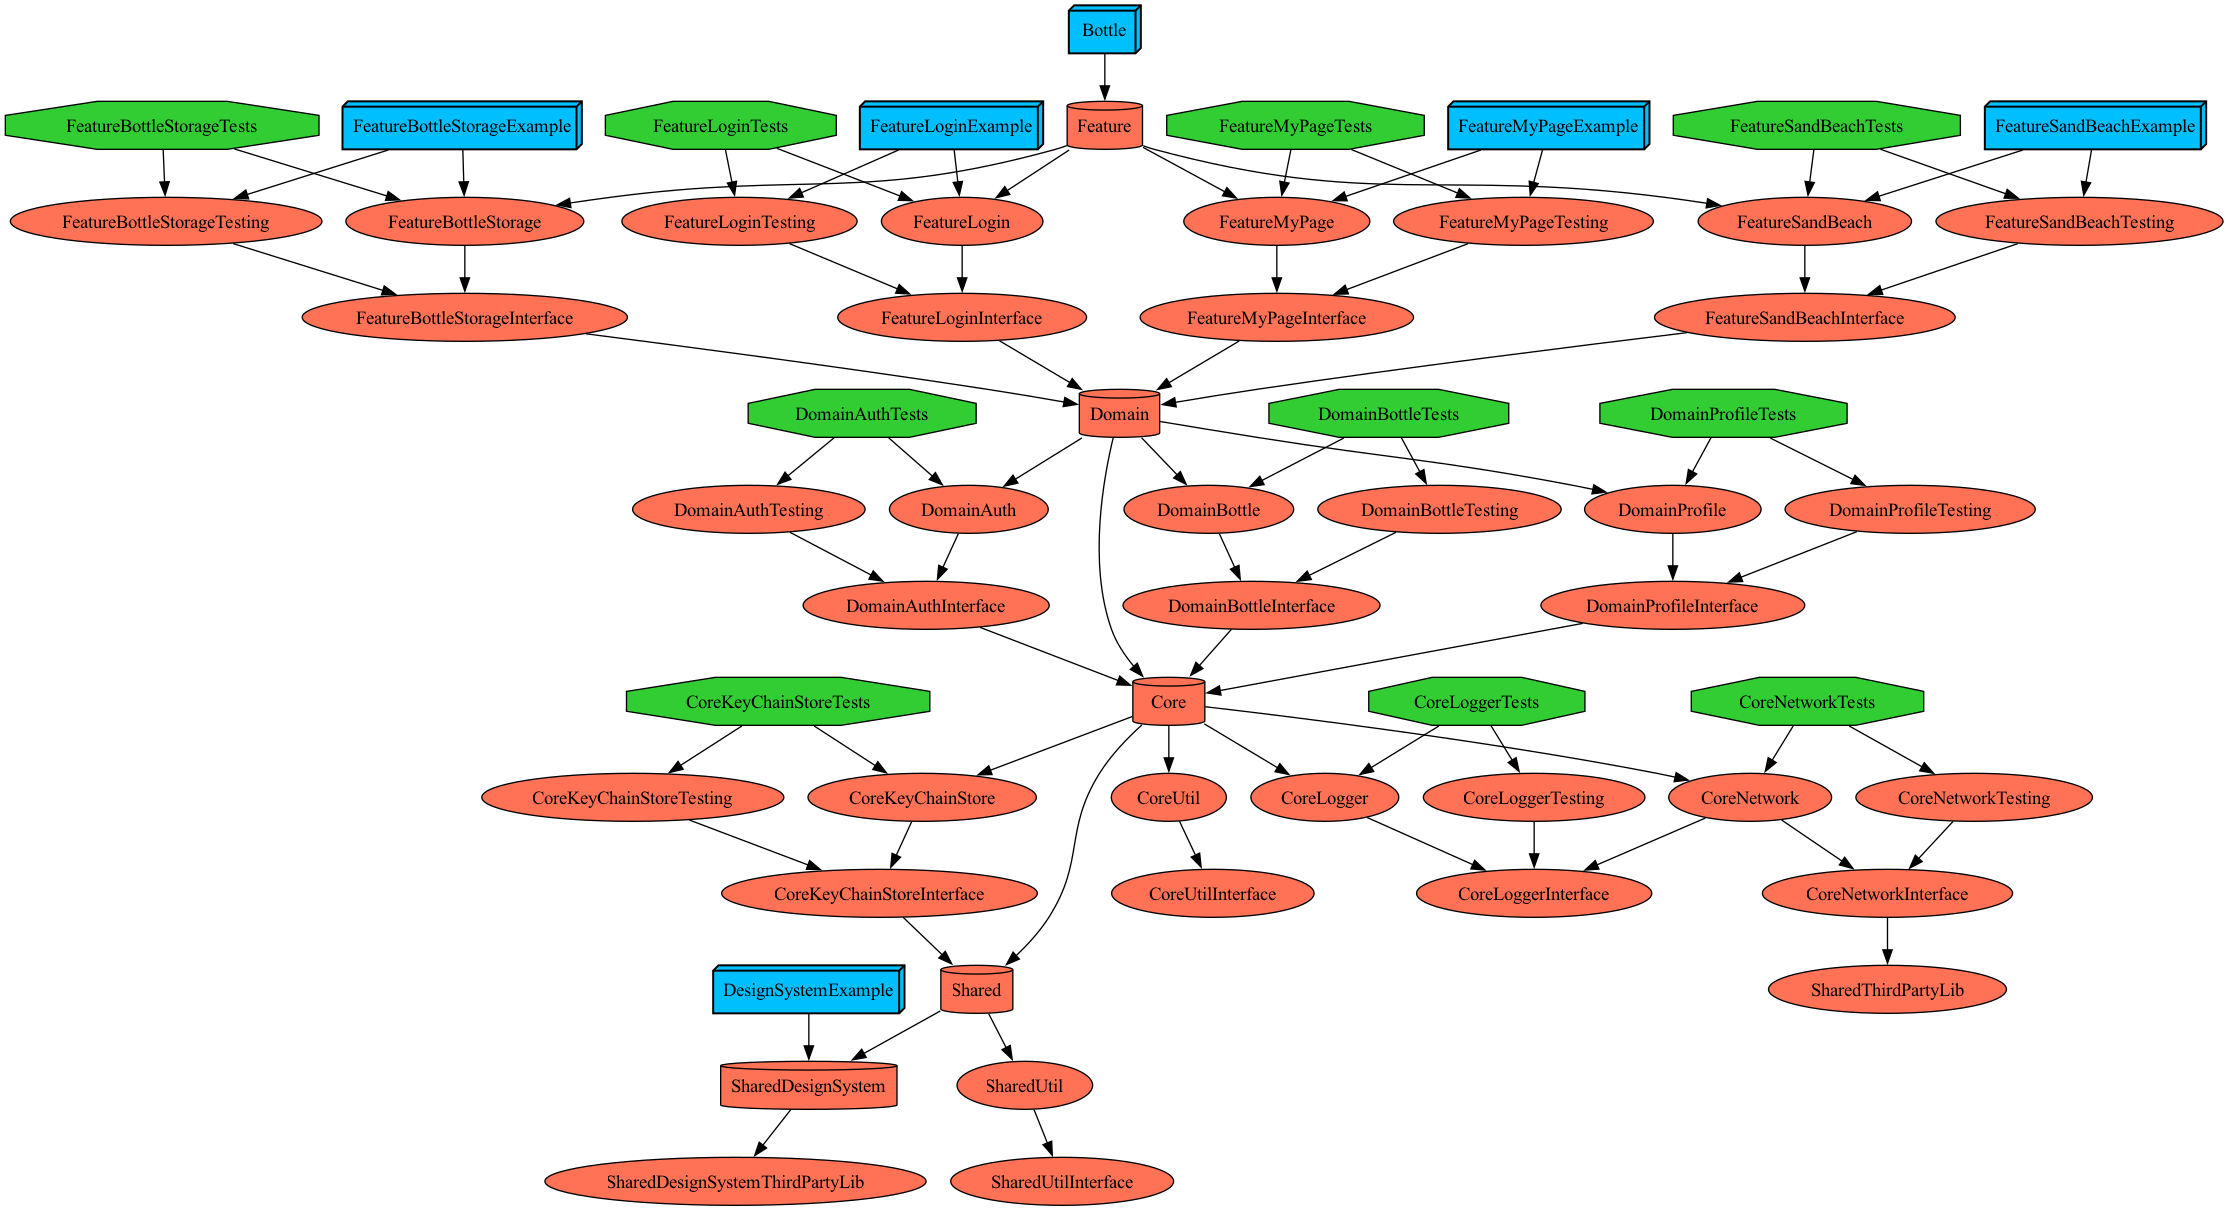
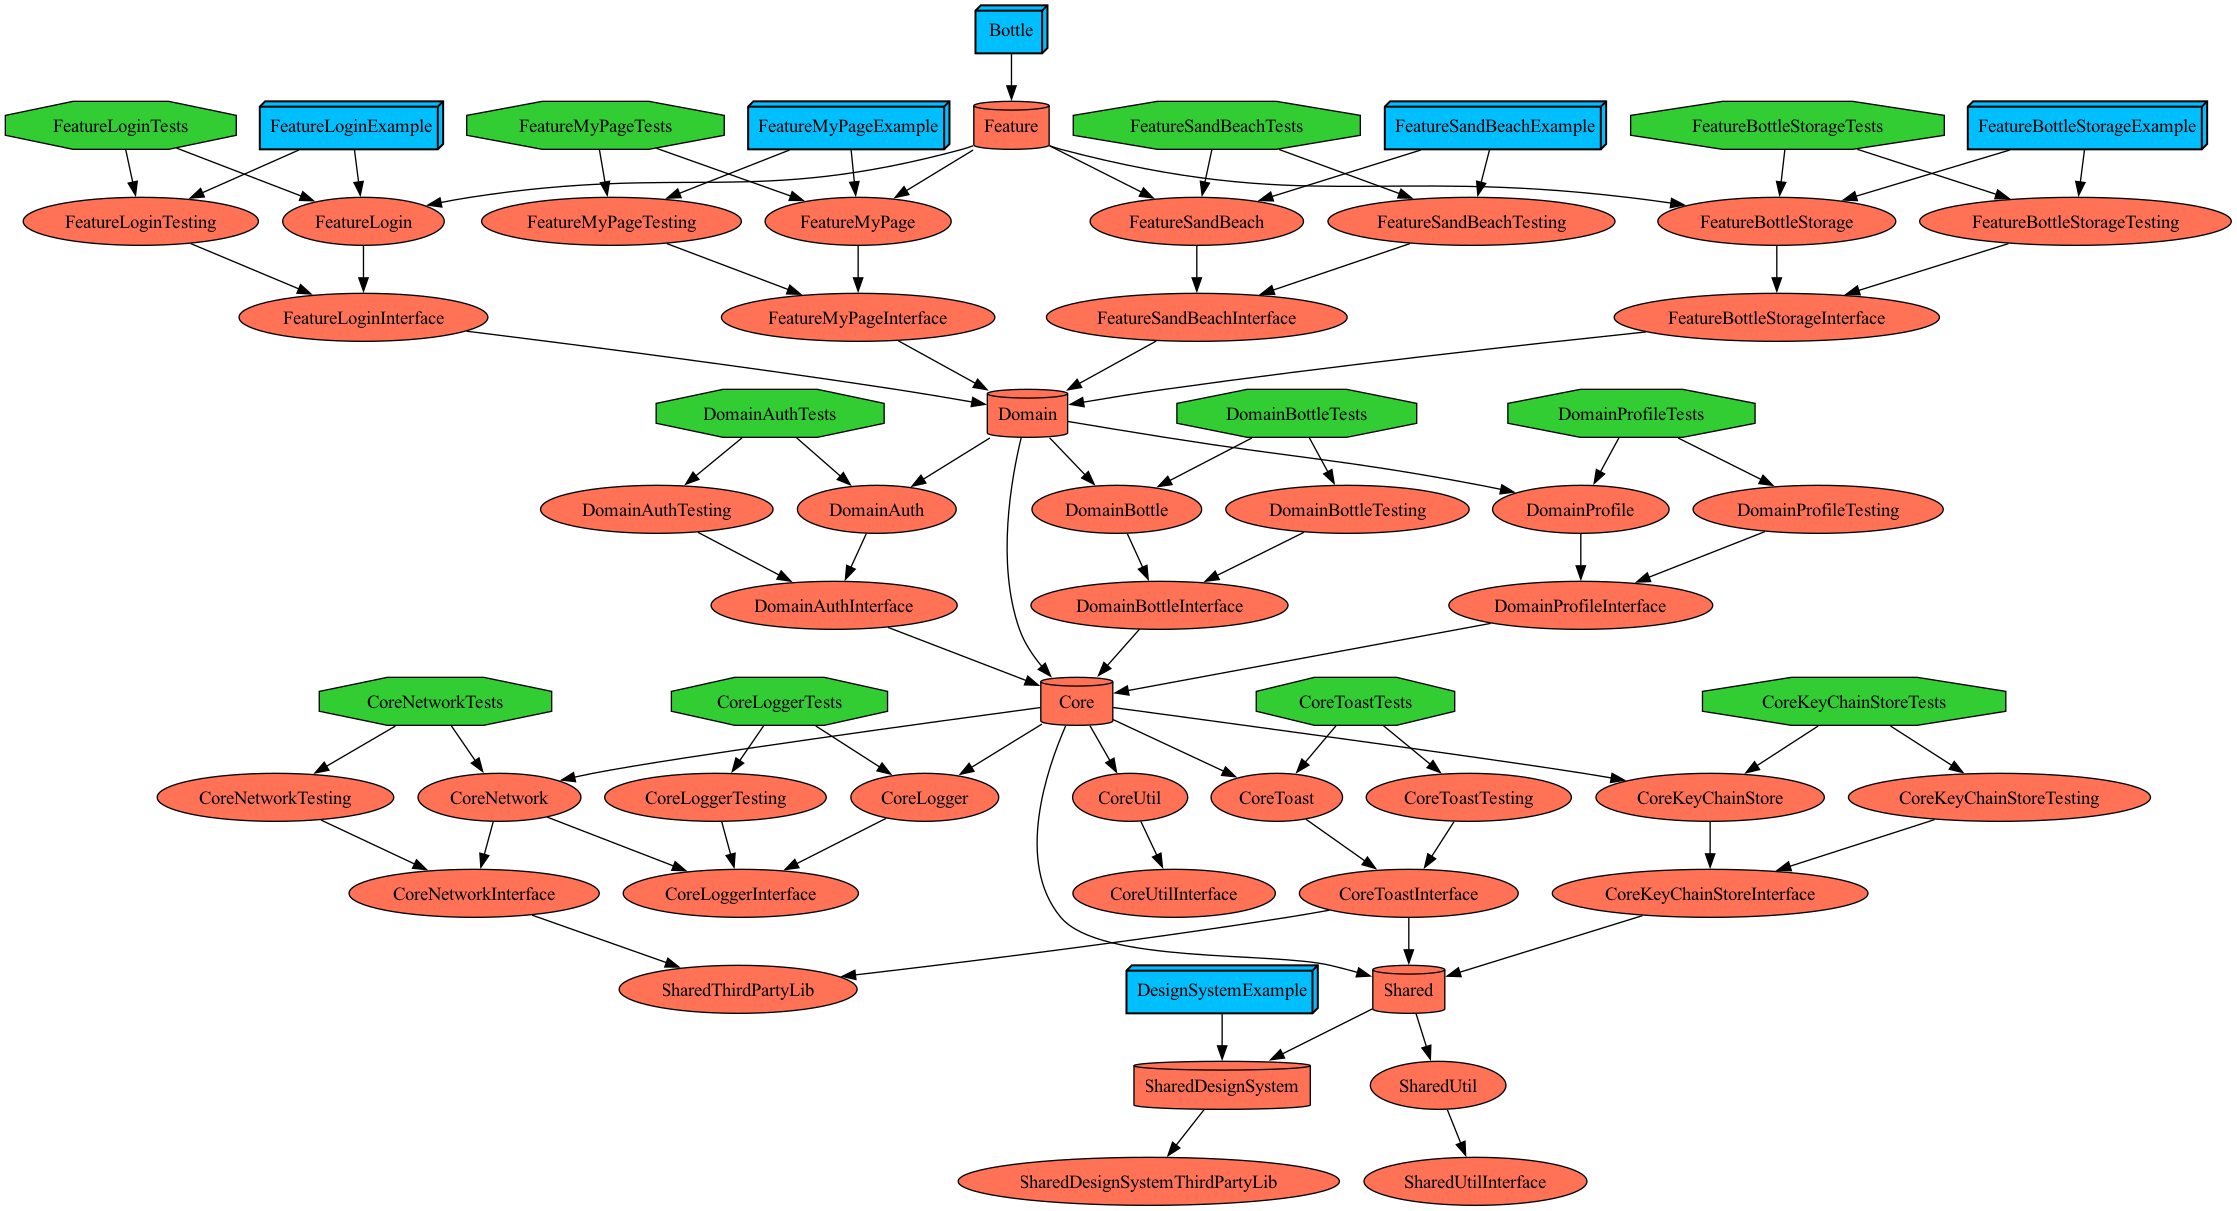
feat: toast client 생성

Changed region(s): [[0.0, 0.0, 0.991, 0.9166], [0.2478, 0.9472, 0.7123, 1.0], [0.7742, 0.7944, 0.8981, 0.8555]]

diff --git a/Projects/Core/Toast/Project.swift b/Projects/Core/Toast/Project.swift
@@ -1,0 +1,45 @@
+import ProjectDescription
+import ProjectDescriptionHelpers
+import DependencyPlugin
+
+let project = Project.makeModule(
+    name: ModulePath.Core.name+ModulePath.Core.Toast.rawValue,
+    targets: [    
+        .core(
+            interface: .Toast,
+            factory: .init(
+                dependencies: [
+                    .shared,
+                    .shared(implements: .ThirdPartyLib)
+                ]
+            )
+        ),
+        .core(
+            implements: .Toast,
+            factory: .init(
+                dependencies: [
+                    .core(interface: .Toast)
+                ]
+            )
+        ),
+    
+        .core(
+            testing: .Toast,
+            factory: .init(
+                dependencies: [
+                    .core(interface: .Toast)
+                ]
+            )
+        ),
+        .core(
+            tests: .Toast,
+            factory: .init(
+                dependencies: [
+                    .core(testing: .Toast),
+                    .core(implements: .Toast)
+                ]
+            )
+        ),
+
+    ]
+)

diff --git a/Projects/Core/Toast/Interface/Sources/ToastClient.swift b/Projects/Core/Toast/Interface/Sources/ToastClient.swift
@@ -1,0 +1,44 @@
+//
+//  ToastClient.swift
+//  CoreToast
+//
+//  Created by JongHoon on 8/4/24.
+//
+
+import Foundation
+
+import SharedDesignSystem
+
+import Dependencies
+
+public struct ToastClient {
+  private let _presentToast: (_ message: String, _ durationSecond: Double) -> Void
+  
+  public init(presentToast: @escaping (_ message: String, _ durationSecond: Double) -> Void) {
+    self._presentToast = presentToast
+  }
+  
+  public func presentToast(message: String, durationSecond: Double = 2.0) {
+    _presentToast(message, durationSecond)
+  }
+}
+
+extension ToastClient: DependencyKey {
+  public static var liveValue: ToastClient {
+    return .init(
+      presentToast: { message, duration in
+        ToastManager.shared.present(
+          message: message,
+          durationSecond: duration
+        )
+      }
+    )
+  }
+}
+
+extension DependencyValues {
+  public var toastClient: ToastClient {
+    get { self[ToastClient.self] }
+    set { self[ToastClient.self] = newValue }
+  }
+}

diff --git a/Projects/Core/Toast/Tests/Sources/ToastTest.swift b/Projects/Core/Toast/Tests/Sources/ToastTest.swift
@@ -1,0 +1,11 @@
+import XCTest
+
+final class ToastTests: XCTestCase {
+  override func setUpWithError() throws {}
+
+  override func tearDownWithError() throws {}
+
+  func testExample() {
+    XCTAssertEqual(1, 1)
+  }
+}

diff --git a/Plugins/DependencyPlugin/ProjectDescriptionHelpers/Modules.swift b/Plugins/DependencyPlugin/ProjectDescriptionHelpers/Modules.swift
@@ -53,6 +53,7 @@ public extension ModulePath {
 
 public extension ModulePath {
     enum Core: String, CaseIterable {
+        case Toast
         case KeyChainStore
         case WebView
         case Util

diff --git a/Projects/Core/Toast/Sources/Source.swift b/Projects/Core/Toast/Sources/Source.swift
@@ -1,0 +1,1 @@
+// This is for Tuist

diff --git a/Projects/Core/Toast/Testing/Sources/ToastTesting.swift b/Projects/Core/Toast/Testing/Sources/ToastTesting.swift
@@ -1,0 +1,1 @@
+// This is for Tuist
